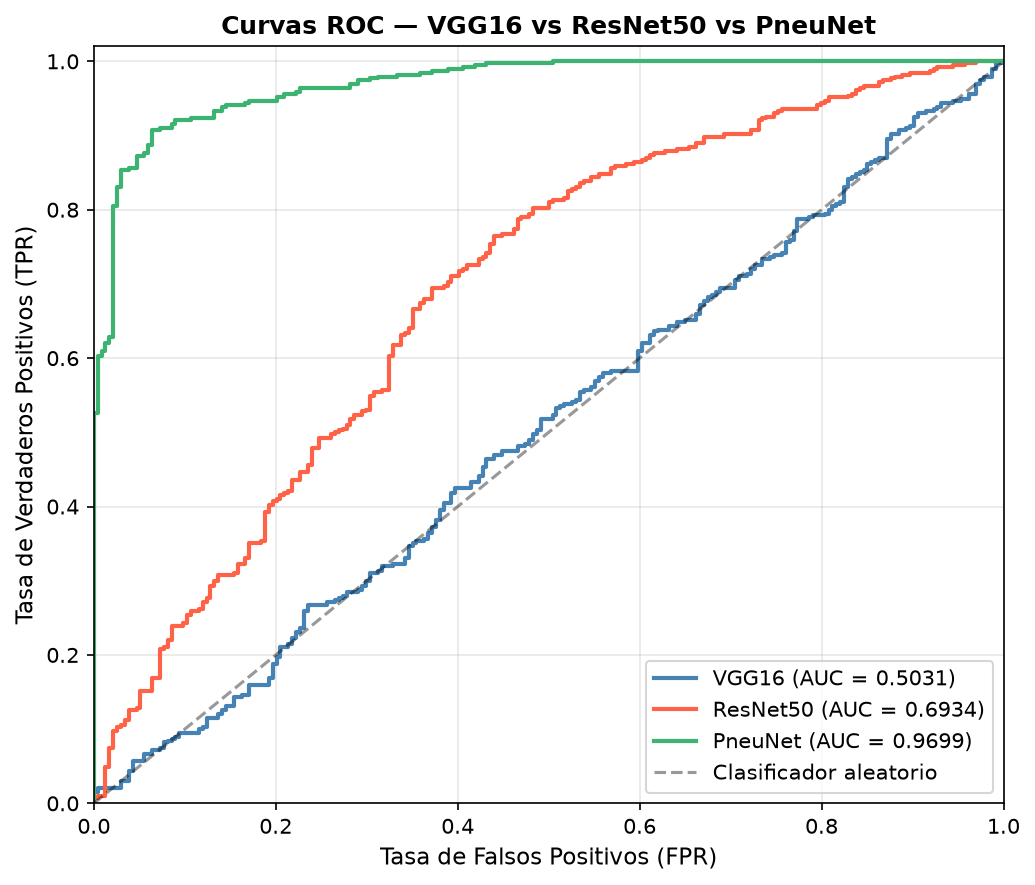
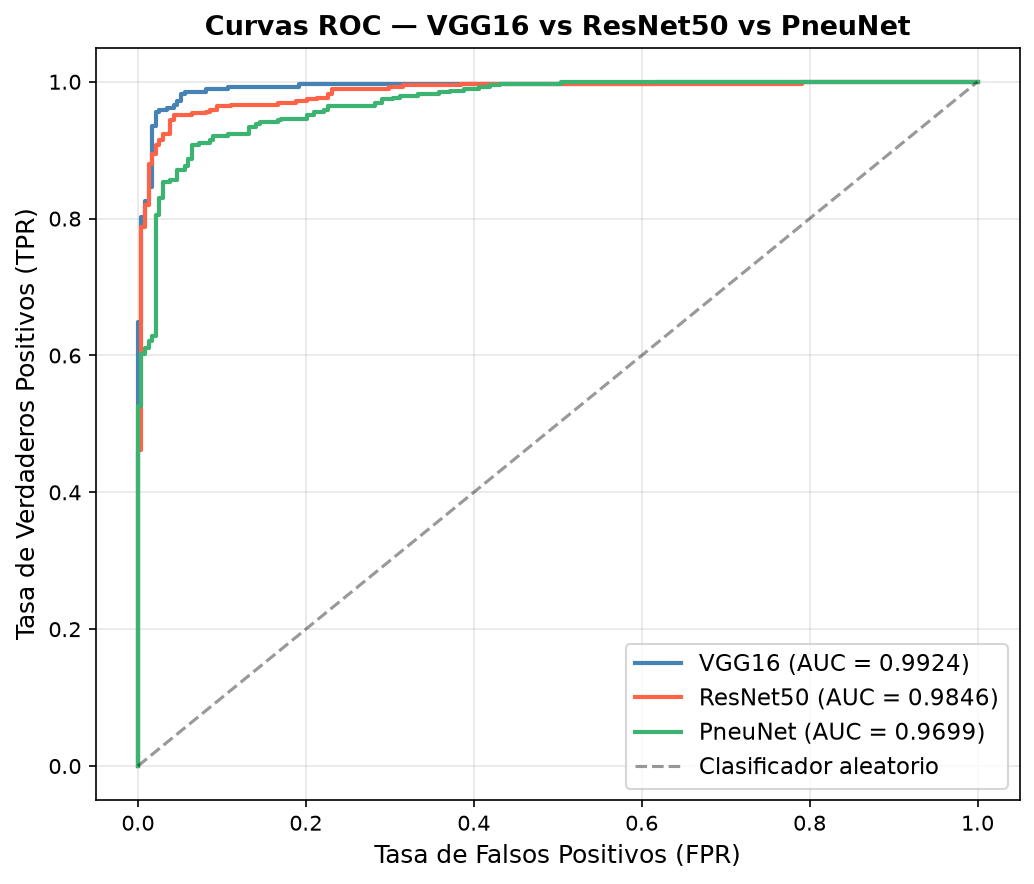
Arreglos de notebook imagenes

diff --git a/regenerar_graficas.py b/regenerar_graficas.py
@@ -1,0 +1,258 @@
+"""
+Script para regenerar todas las gráficas del TP3.
+Carga los modelos FT ya entrenados y genera plots correctos.
+NO reentrena nada.
+"""
+import os
+import numpy as np
+import matplotlib
+matplotlib.use('Agg')
+import matplotlib.pyplot as plt
+import seaborn as sns
+import tensorflow as tf
+from tensorflow import keras
+from tensorflow.keras.preprocessing.image import ImageDataGenerator
+from tensorflow.keras.applications.vgg16 import preprocess_input as vgg_preprocess
+from tensorflow.keras.applications.resnet50 import preprocess_input as resnet_preprocess
+from sklearn.metrics import (confusion_matrix, roc_curve, auc,
+                              accuracy_score, precision_score,
+                              recall_score, f1_score)
+
+print("TF version:", tf.__version__)
+print("GPUs:", tf.config.list_physical_devices('GPU'))
+
+# ── Paths ──────────────────────────────────────────────────────────────────
+TEST_DIR         = "dataset/chest_xray/test"
+VGG16_FT_PATH    = "vgg16_best_ft.keras"
+RESNET50_FT_PATH = "resnet50_best_ft.keras"
+PNEUNET_PATH     = "pneunet_best.keras"
+IMG_SIZE         = (224, 224)
+BATCH_SIZE       = 32
+
+# ── Verifica que existen los modelos ──────────────────────────────────────
+for p in [VGG16_FT_PATH, RESNET50_FT_PATH, PNEUNET_PATH]:
+    assert os.path.exists(p), f"No se encontró: {p}"
+    print(f"OK {p} ({os.path.getsize(p)/1e6:.1f} MB)")
+
+# ── Generadores de test ────────────────────────────────────────────────────
+def pneunet_preprocess(x):
+    return x / 255.0
+
+def make_test_gen(preprocess_fn):
+    dg = ImageDataGenerator(preprocessing_function=preprocess_fn)
+    return dg.flow_from_directory(
+        TEST_DIR, target_size=IMG_SIZE, batch_size=BATCH_SIZE,
+        class_mode='binary', shuffle=False
+    )
+
+test_vgg    = make_test_gen(vgg_preprocess)
+test_resnet = make_test_gen(resnet_preprocess)
+test_pneu   = make_test_gen(pneunet_preprocess)
+
+print("\nClass indices:", test_vgg.class_indices)
+print(f"Test samples: {test_vgg.n}")
+n_normal    = (test_vgg.classes == 0).sum()
+n_pneumonia = (test_vgg.classes == 1).sum()
+print(f"  NORMAL={n_normal}, PNEUMONIA={n_pneumonia}")
+
+# ── Carga modelos ──────────────────────────────────────────────────────────
+print("\nCargando modelos…")
+model_vgg    = keras.models.load_model(VGG16_FT_PATH,    compile=False)
+model_resnet = keras.models.load_model(RESNET50_FT_PATH, compile=False)
+model_pneu   = keras.models.load_model(PNEUNET_PATH,     compile=False)
+print("OK Modelos cargados")
+
+# ── Predicciones ───────────────────────────────────────────────────────────
+def get_preds(model, test_gen):
+    test_gen.reset()
+    probs  = model.predict(test_gen, verbose=1).ravel()
+    preds  = (probs > 0.5).astype(int)
+    labels = test_gen.classes
+    return labels, preds, probs
+
+print("\nPrediciendo VGG16…")
+y_true_vgg,    y_pred_vgg,    y_prob_vgg    = get_preds(model_vgg,    test_vgg)
+print("Prediciendo ResNet50…")
+y_true_resnet, y_pred_resnet, y_prob_resnet = get_preds(model_resnet, test_resnet)
+print("Prediciendo PneuNet…")
+y_true_pneu,   y_pred_pneu,   y_prob_pneu  = get_preds(model_pneu,   test_pneu)
+
+# ── Función métricas ───────────────────────────────────────────────────────
+def compute_metrics(y_true, y_pred, y_prob, name):
+    cm  = confusion_matrix(y_true, y_pred)
+    tn, fp, fn, tp = cm.ravel()
+    fpr_arr, tpr_arr, _ = roc_curve(y_true, y_prob)
+    auc_val = auc(fpr_arr, tpr_arr)
+    spec = tn / (tn + fp) if (tn + fp) > 0 else 0
+    acc  = accuracy_score(y_true, y_pred)
+    prec = precision_score(y_true, y_pred, zero_division=0)
+    rec  = recall_score(y_true, y_pred, zero_division=0)
+    f1   = f1_score(y_true, y_pred, zero_division=0)
+    print(f"\n{'='*40}")
+    print(f"  {name}")
+    print(f"  TN={tn}, FP={fp}, FN={fn}, TP={tp}")
+    print(f"  Accuracy    = {acc*100:.2f}%")
+    print(f"  Precision   = {prec*100:.2f}%")
+    print(f"  Recall      = {rec*100:.2f}%")
+    print(f"  F1-Score    = {f1*100:.2f}%")
+    print(f"  AUC         = {auc_val*100:.2f}%")
+    print(f"  Specificity = {spec*100:.2f}%")
+    return dict(Modelo=name, Accuracy=round(acc*100,2), Precision=round(prec*100,2),
+                Recall=round(rec*100,2), F1=round(f1*100,2),
+                AUC=round(auc_val*100,2), Especificidad=round(spec*100,2))
+
+print("\n" + "="*40)
+print("MÉTRICAS EN TEST SET")
+m_vgg    = compute_metrics(y_true_vgg,    y_pred_vgg,    y_prob_vgg,    "VGG16")
+m_resnet = compute_metrics(y_true_resnet, y_pred_resnet, y_prob_resnet, "ResNet50")
+m_pneu   = compute_metrics(y_true_pneu,   y_pred_pneu,   y_prob_pneu,   "PneuNet")
+
+# ── 1. Matrices de confusión ───────────────────────────────────────────────
+print("\nGenerando matrices_confusion.png…")
+fig, axes = plt.subplots(1, 3, figsize=(17, 5))
+fig.suptitle("Matrices de Confusión — Test Set", fontsize=14, fontweight='bold')
+
+for ax, y_true, y_pred, title, cmap in [
+    (axes[0], y_true_vgg,    y_pred_vgg,    "VGG16",    "Blues"),
+    (axes[1], y_true_resnet, y_pred_resnet, "ResNet50", "Reds"),
+    (axes[2], y_true_pneu,   y_pred_pneu,   "PneuNet",  "Greens"),
+]:
+    cm = confusion_matrix(y_true, y_pred)
+    cm_pct = cm.astype(float) / cm.sum(axis=1, keepdims=True) * 100
+    labels = [["NORMAL", "PNEUMONIA"]]
+    annot  = np.array([[f"{cm[i,j]}\n({cm_pct[i,j]:.1f}%)" for j in range(2)] for i in range(2)])
+    sns.heatmap(cm, annot=annot, fmt='', cmap=cmap, ax=ax,
+                xticklabels=['NORMAL','PNEUMONIA'],
+                yticklabels=['NORMAL','PNEUMONIA'],
+                linewidths=0.5, cbar=False)
+    ax.set_title(title, fontsize=13, fontweight='bold')
+    ax.set_xlabel("Predicción", fontsize=11)
+    ax.set_ylabel("Real", fontsize=11)
+
+plt.tight_layout()
+plt.savefig('matrices_confusion.png', dpi=150, bbox_inches='tight')
+plt.close()
+print("  OK matrices_confusion.png")
+
+# ── 2. Curvas ROC ──────────────────────────────────────────────────────────
+print("Generando curvas_roc.png…")
+fig, ax = plt.subplots(figsize=(7, 6))
+for y_true, y_prob, name, color in [
+    (y_true_vgg,    y_prob_vgg,    "VGG16",    "steelblue"),
+    (y_true_resnet, y_prob_resnet, "ResNet50", "tomato"),
+    (y_true_pneu,   y_prob_pneu,   "PneuNet",  "mediumseagreen"),
+]:
+    fpr_arr, tpr_arr, _ = roc_curve(y_true, y_prob)
+    auc_val = auc(fpr_arr, tpr_arr)
+    ax.plot(fpr_arr, tpr_arr, label=f"{name} (AUC = {auc_val:.4f})", color=color, lw=2)
+
+ax.plot([0,1],[0,1], 'k--', alpha=0.4, label="Clasificador aleatorio")
+ax.set_xlabel("Tasa de Falsos Positivos (FPR)", fontsize=12)
+ax.set_ylabel("Tasa de Verdaderos Positivos (TPR)", fontsize=12)
+ax.set_title("Curvas ROC — VGG16 vs ResNet50 vs PneuNet", fontsize=13, fontweight='bold')
+ax.legend(loc='lower right', fontsize=11)
+ax.grid(True, alpha=0.3)
+plt.tight_layout()
+plt.savefig('curvas_roc.png', dpi=150, bbox_inches='tight')
+plt.close()
+print("  OK curvas_roc.png")
+
+# ── 3. Comparación de métricas ─────────────────────────────────────────────
+print("Generando comparacion_metricas.png…")
+metricas = ['Accuracy', 'Precision', 'Recall', 'F1', 'AUC', 'Especificidad']
+modelos  = [m_vgg, m_resnet, m_pneu]
+colores  = ['steelblue', 'tomato', 'mediumseagreen']
+nombres  = ['VGG16', 'ResNet50', 'PneuNet']
+
+x     = np.arange(len(metricas))
+width = 0.25
+
+fig, ax = plt.subplots(figsize=(13, 5))
+for i, (m, col, nom) in enumerate(zip(modelos, colores, nombres)):
+    vals  = [m[k] for k in metricas]
+    bars  = ax.bar(x + i*width, vals, width, label=nom, color=col, alpha=0.85)
+    for bar, val in zip(bars, vals):
+        ax.text(bar.get_x() + bar.get_width()/2, bar.get_height() + 0.3,
+                f"{val:.1f}", ha='center', va='bottom', fontsize=7.5, fontweight='bold')
+
+ymin = min(m[k] for m in modelos for k in metricas) - 5
+ax.set_ylim(max(0, ymin), 105)
+ax.set_xticks(x + width)
+ax.set_xticklabels(metricas, fontsize=11)
+ax.set_ylabel("Porcentaje (%)", fontsize=11)
+ax.set_title("Comparación de Métricas — Test Set (3 modelos)", fontsize=13, fontweight='bold')
+ax.legend(fontsize=10)
+ax.grid(axis='y', alpha=0.3)
+plt.tight_layout()
+plt.savefig('comparacion_metricas.png', dpi=150, bbox_inches='tight')
+plt.close()
+print("  OK comparacion_metricas.png")
+
+# ── 4. Falsos negativos (neumonías escapadas) ──────────────────────────────
+print("Generando neumonias_escapadas2.png…")
+fn_counts = []
+fn_pcts   = []
+total_pneu = n_pneumonia
+for y_true, y_pred in [(y_true_vgg, y_pred_vgg),
+                       (y_true_resnet, y_pred_resnet),
+                       (y_true_pneu, y_pred_pneu)]:
+    fn = int(((y_true == 1) & (y_pred == 0)).sum())
+    fn_counts.append(fn)
+    fn_pcts.append(fn / total_pneu * 100)
+
+fig, ax = plt.subplots(figsize=(7, 5))
+bars = ax.bar(nombres, fn_counts, color=colores, alpha=0.85, edgecolor='black', linewidth=0.5)
+for bar, cnt, pct in zip(bars, fn_counts, fn_pcts):
+    ax.text(bar.get_x() + bar.get_width()/2, bar.get_height() + 0.5,
+            f"{cnt} neumonías\n({pct:.1f}%)", ha='center', va='bottom',
+            fontsize=10, fontweight='bold')
+ax.set_ylabel("Cantidad de neumonías NO detectadas (FN)", fontsize=11)
+ax.set_title(f"¿Cuántas neumonías se le escaparon a cada modelo?\n"
+             f"(de {total_pneu} neumonías reales en test)", fontsize=12)
+ax.set_ylim(0, max(fn_counts) * 1.3)
+ax.grid(axis='y', alpha=0.3)
+plt.tight_layout()
+plt.savefig('neumonias_escapadas2.png', dpi=150, bbox_inches='tight')
+plt.close()
+print("  OK neumonias_escapadas2.png")
+
+# ── 5. Tamaño vs Accuracy ──────────────────────────────────────────────────
+print("Generando tamanio_vs_accuracy2.png…")
+params = {
+    'VGG16':    model_vgg.count_params(),
+    'ResNet50': model_resnet.count_params(),
+    'PneuNet':  model_pneu.count_params(),
+}
+print("  Parámetros:", params)
+
+fig, ax = plt.subplots(figsize=(8, 6))
+for m, col, nom in zip(modelos, colores, nombres):
+    acc  = m['Accuracy']
+    rec  = m['Recall']
+    p    = params[nom]
+    size = rec / 5
+    ax.scatter(p, acc, s=size**2, color=col, alpha=0.6, edgecolors='black', linewidth=0.8)
+    ax.annotate(f"{nom}\n(rec={rec:.1f}%)", (p, acc),
+                textcoords="offset points", xytext=(10, 5), fontsize=9)
+
+ax.set_xscale('log')
+ax.set_xlabel("Parámetros (escala log)", fontsize=11)
+ax.set_ylabel("Accuracy en test (%)", fontsize=11)
+ax.set_title("Trade-off: Tamaño vs Accuracy (burbuja = Recall)", fontsize=12)
+ax.grid(True, alpha=0.3)
+
+# Leyenda de burbujas
+for col, nom in zip(colores, nombres):
+    ax.scatter([], [], s=60, color=col, alpha=0.6, edgecolors='black', linewidth=0.8, label=nom)
+ax.legend(loc='lower right', fontsize=9)
+plt.tight_layout()
+plt.savefig('tamanio_vs_accuracy2.png', dpi=150, bbox_inches='tight')
+plt.close()
+print("  OK tamanio_vs_accuracy2.png")
+
+print("\nTODAS LAS GRAFICAS GENERADAS CORRECTAMENTE")
+print("="*50)
+print("Resumen final:")
+for m in [m_vgg, m_resnet, m_pneu]:
+    print(f"  {m['Modelo']:10s}: Acc={m['Accuracy']:.1f}%, "
+          f"Rec={m['Recall']:.1f}%, AUC={m['AUC']:.1f}%")